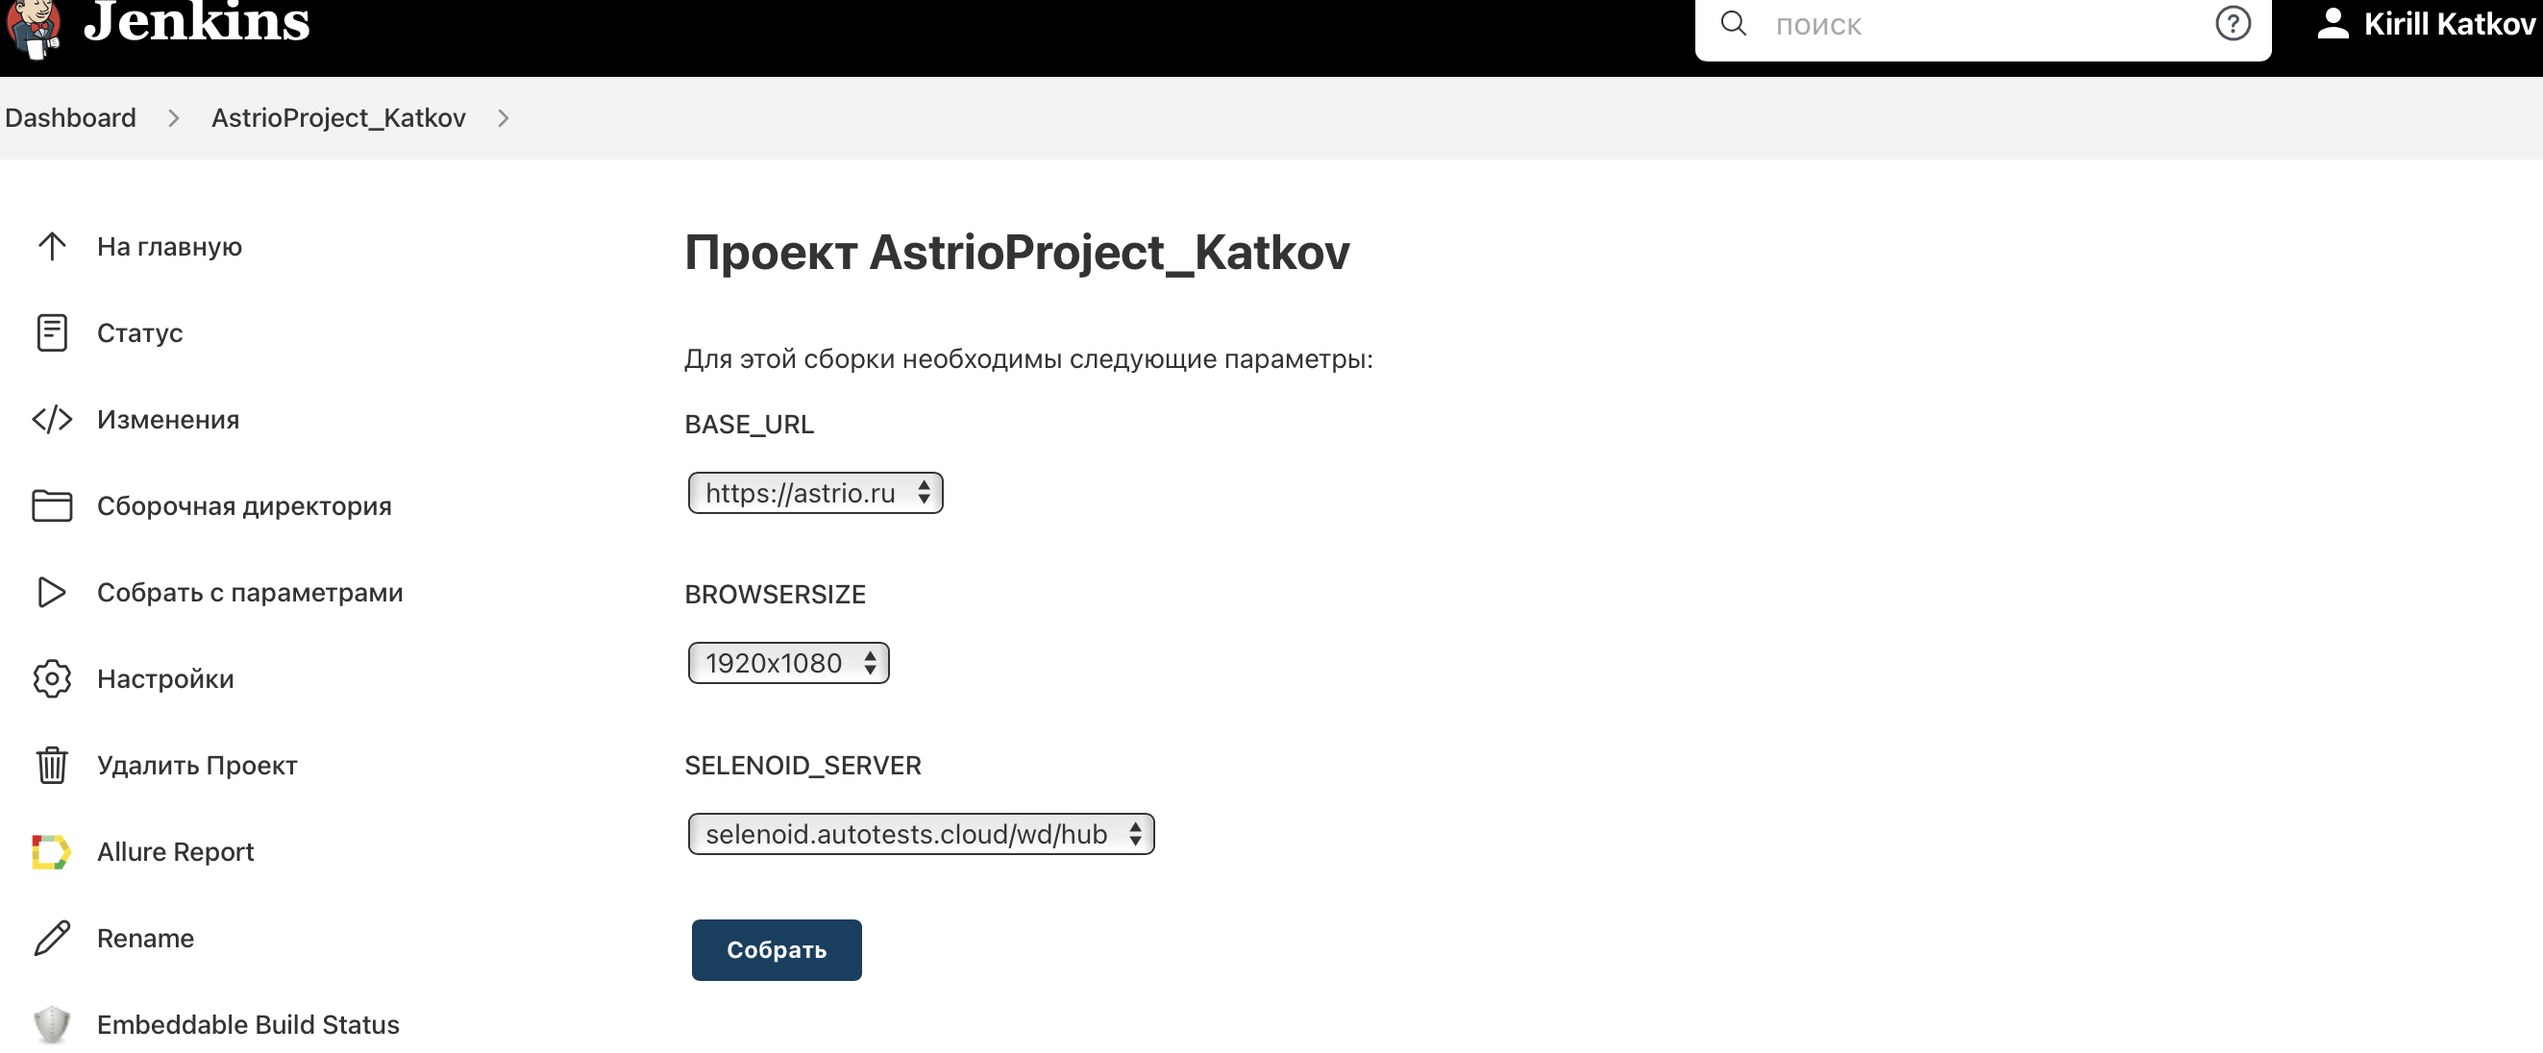
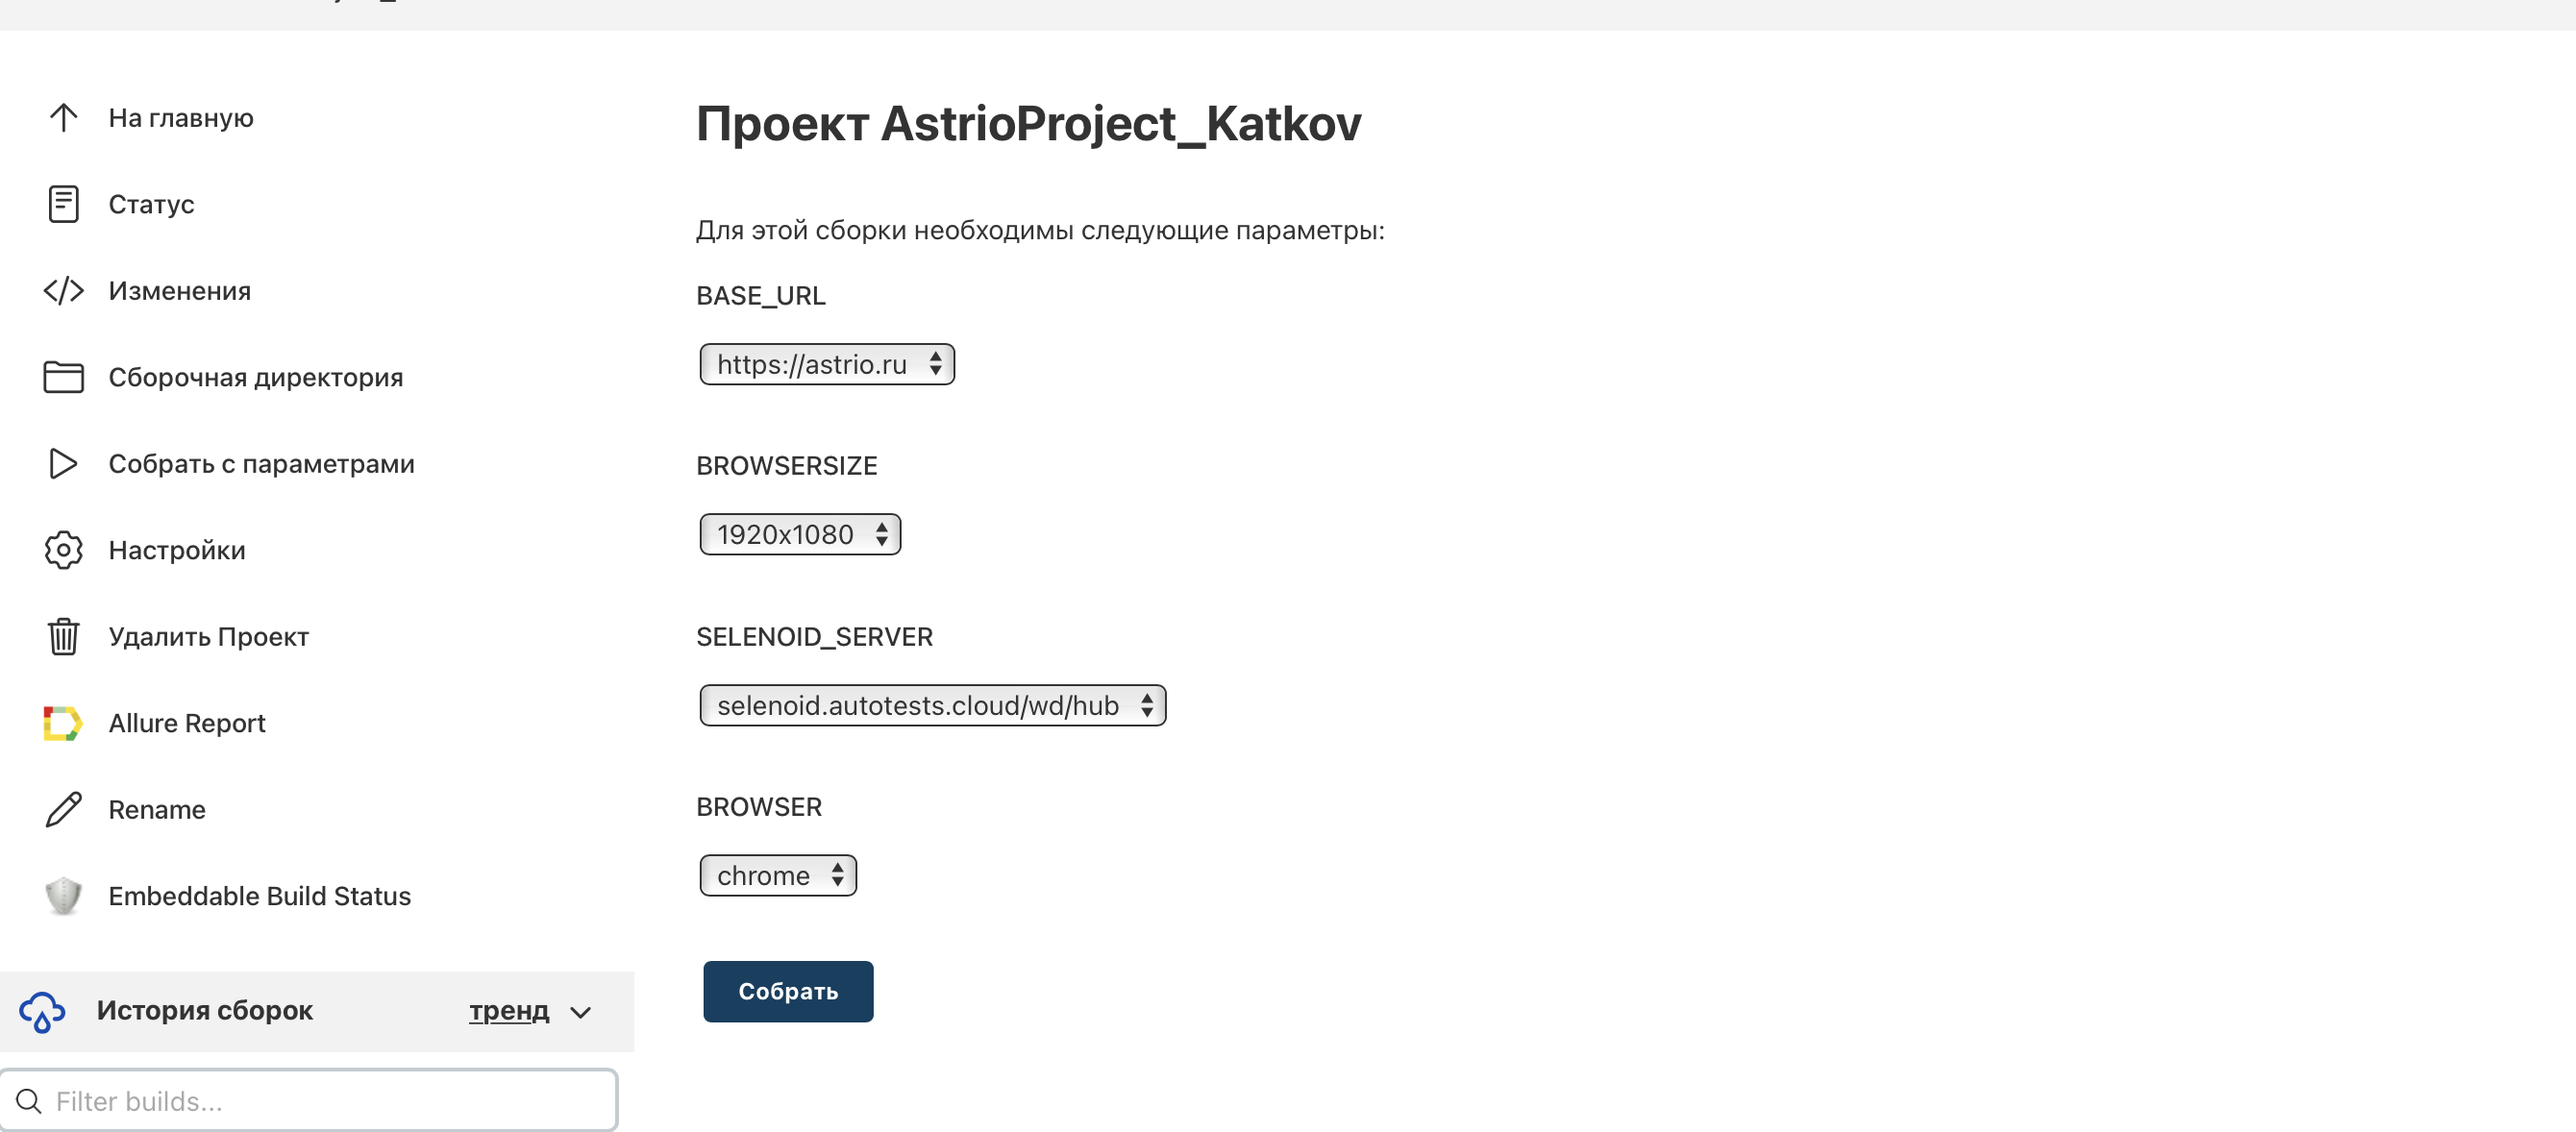
update test 3

diff --git a/README.md b/README.md
@@ -59,6 +59,7 @@ gradle clean test
 clean
 astrio
  -DbaseUrl=${BASE_URL}
+ -Dbrowser=${BROWSER}
  -Dbrowsersize=${BROWSERSIZE}
  -Dselenoid_server=${SELENOID_SERVER}
 ```
@@ -90,7 +91,7 @@ astrio
 </p>
 
 ## :film_projector: Видео примеры прохождения тестов
-> К каждому тесту в отчете прилагается видео. Одно из таких видео представлено ниже.
+> После каждого прохождения теста будет доступно видео. Один из примеров ниже:
 <p align="center">
-  <img title="Selenoid Video" src="images/screenshots/e6bfd1a5ec0643a6.gif">
+  <img title="Selenoid Video" src="images/screenshots/1.gif">
 </p>
